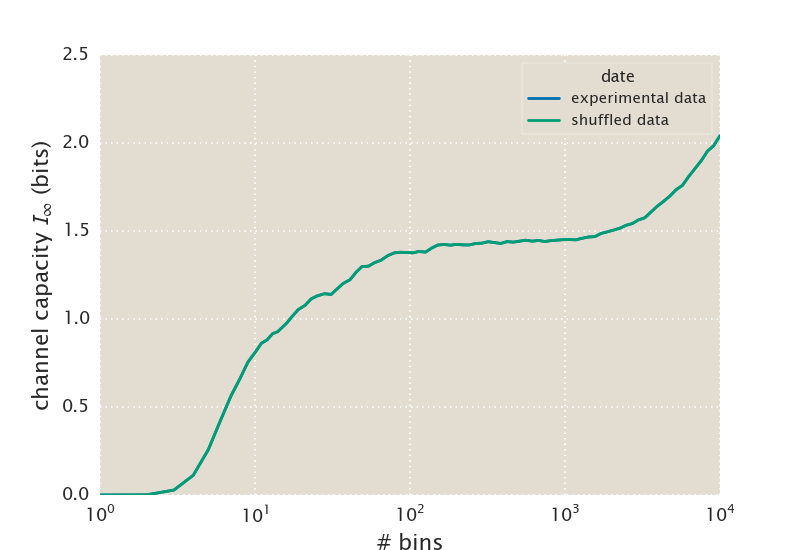
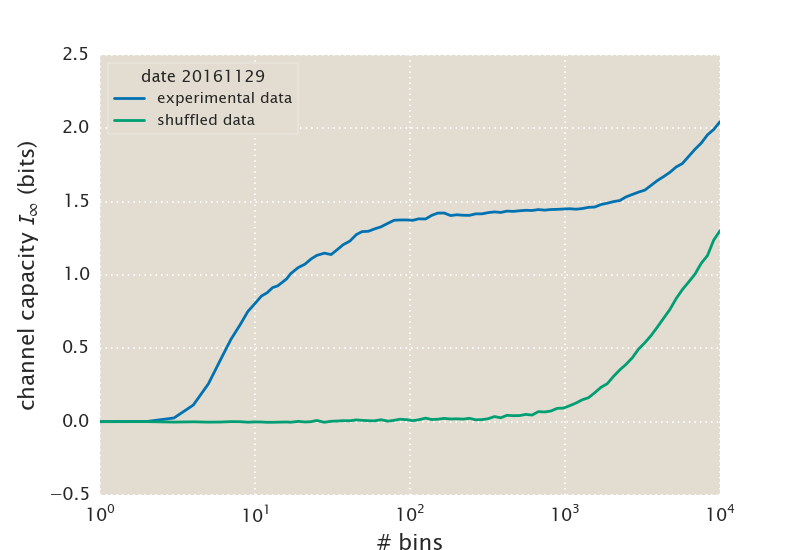
adding the computation of channel capacities form experimental data from 21611 18 and 29

diff --git a/src/channcap_exp/20161118_O2_RBS1027_channel_capacity_experiment/processing.py b/src/channcap_exp/20161118_O2_RBS1027_channel_capacity_experiment/processing.py
@@ -35,7 +35,7 @@ chann_cap.set_plotting_style()
 # METADATA
 #==============================================================================
 
-DATE = 20161129
+DATE = 20161118
 USERNAME = 'mrazomej'
 OPERATOR = 'O2'
 STRAIN = 'RBS1027'
@@ -65,7 +65,7 @@ df = df_micro[(df_micro.rbs != 'auto') & (df_micro.rbs != 'delta')]
 #============================================================================== 
 # Compute channel capacity for experimental data
 #============================================================================== 
-compute_exp = False
+compute_exp = True
 if compute_exp:
     def channcap_bs_parallel(b):
         # Initialize matrix to save bootstrap repeats
@@ -127,7 +127,7 @@ df_cc[['date', 'bins']] = df_cc[['date', 'bins']].astype(int)
 # Computing the channel capacity for randomized data
 #============================================================================== 
 
-compute_shuff = False
+compute_shuff = True
 
 if compute_shuff:
     print('shuffling mean_intensity data')
